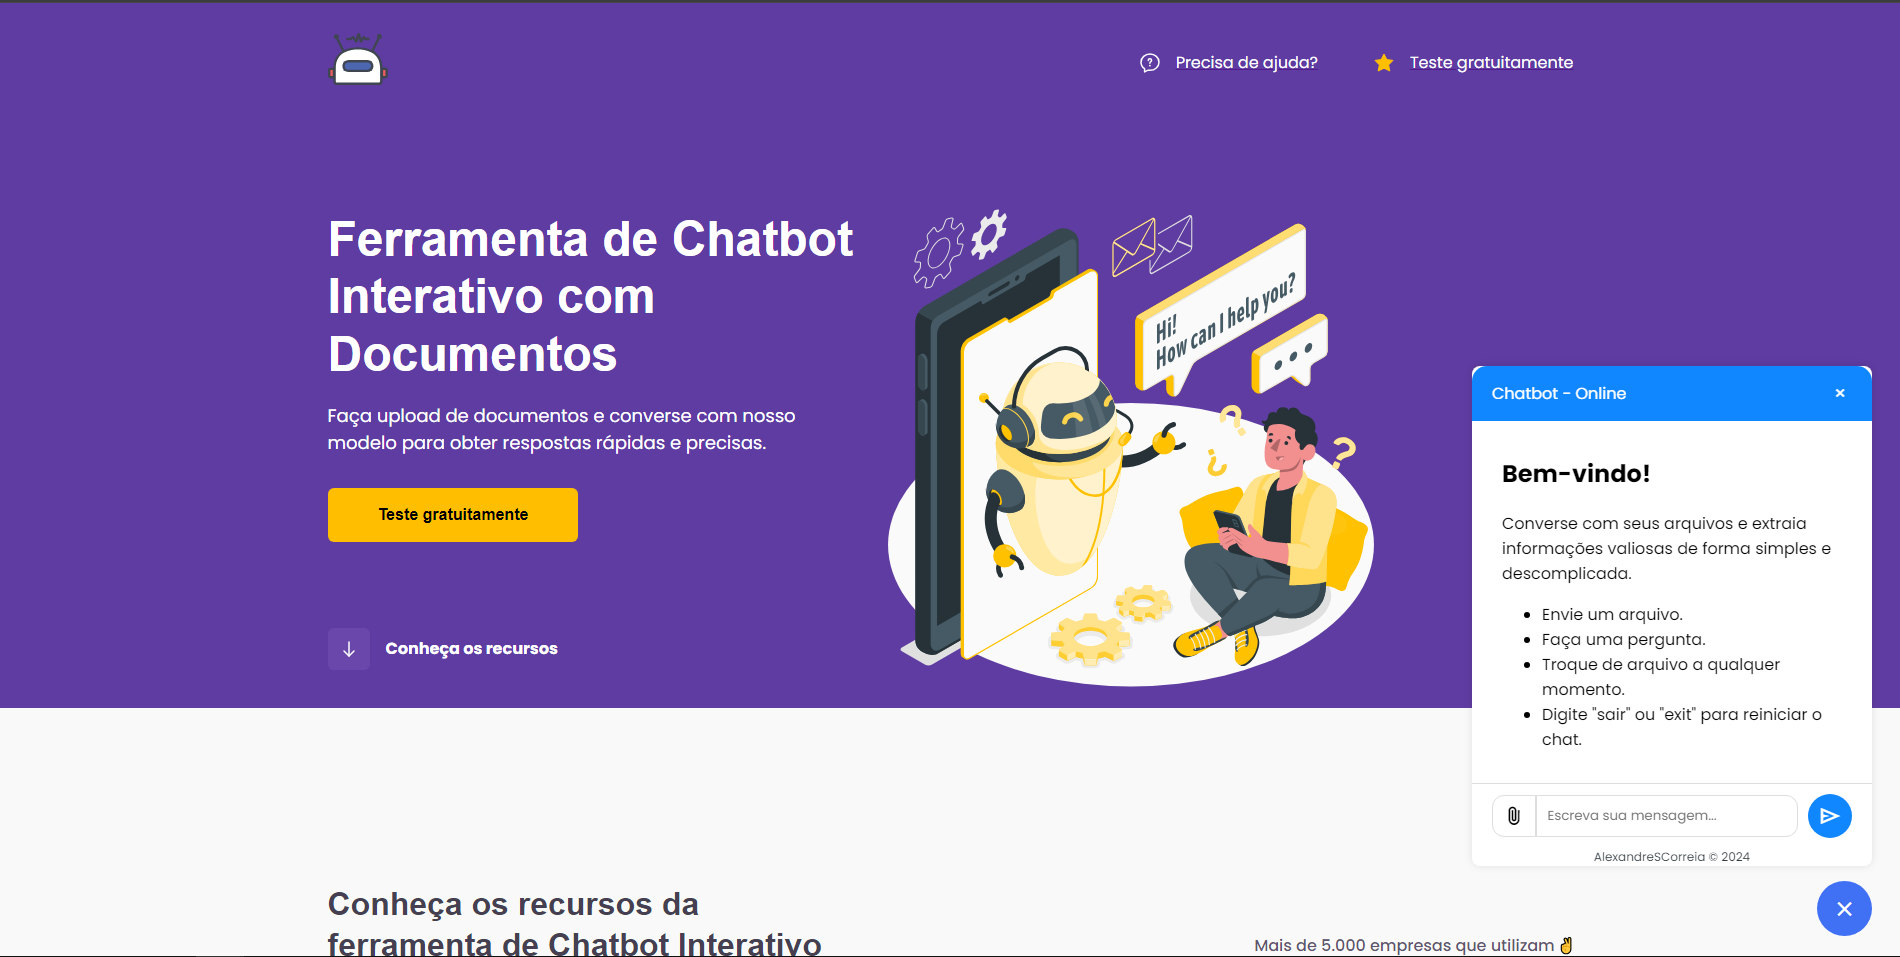
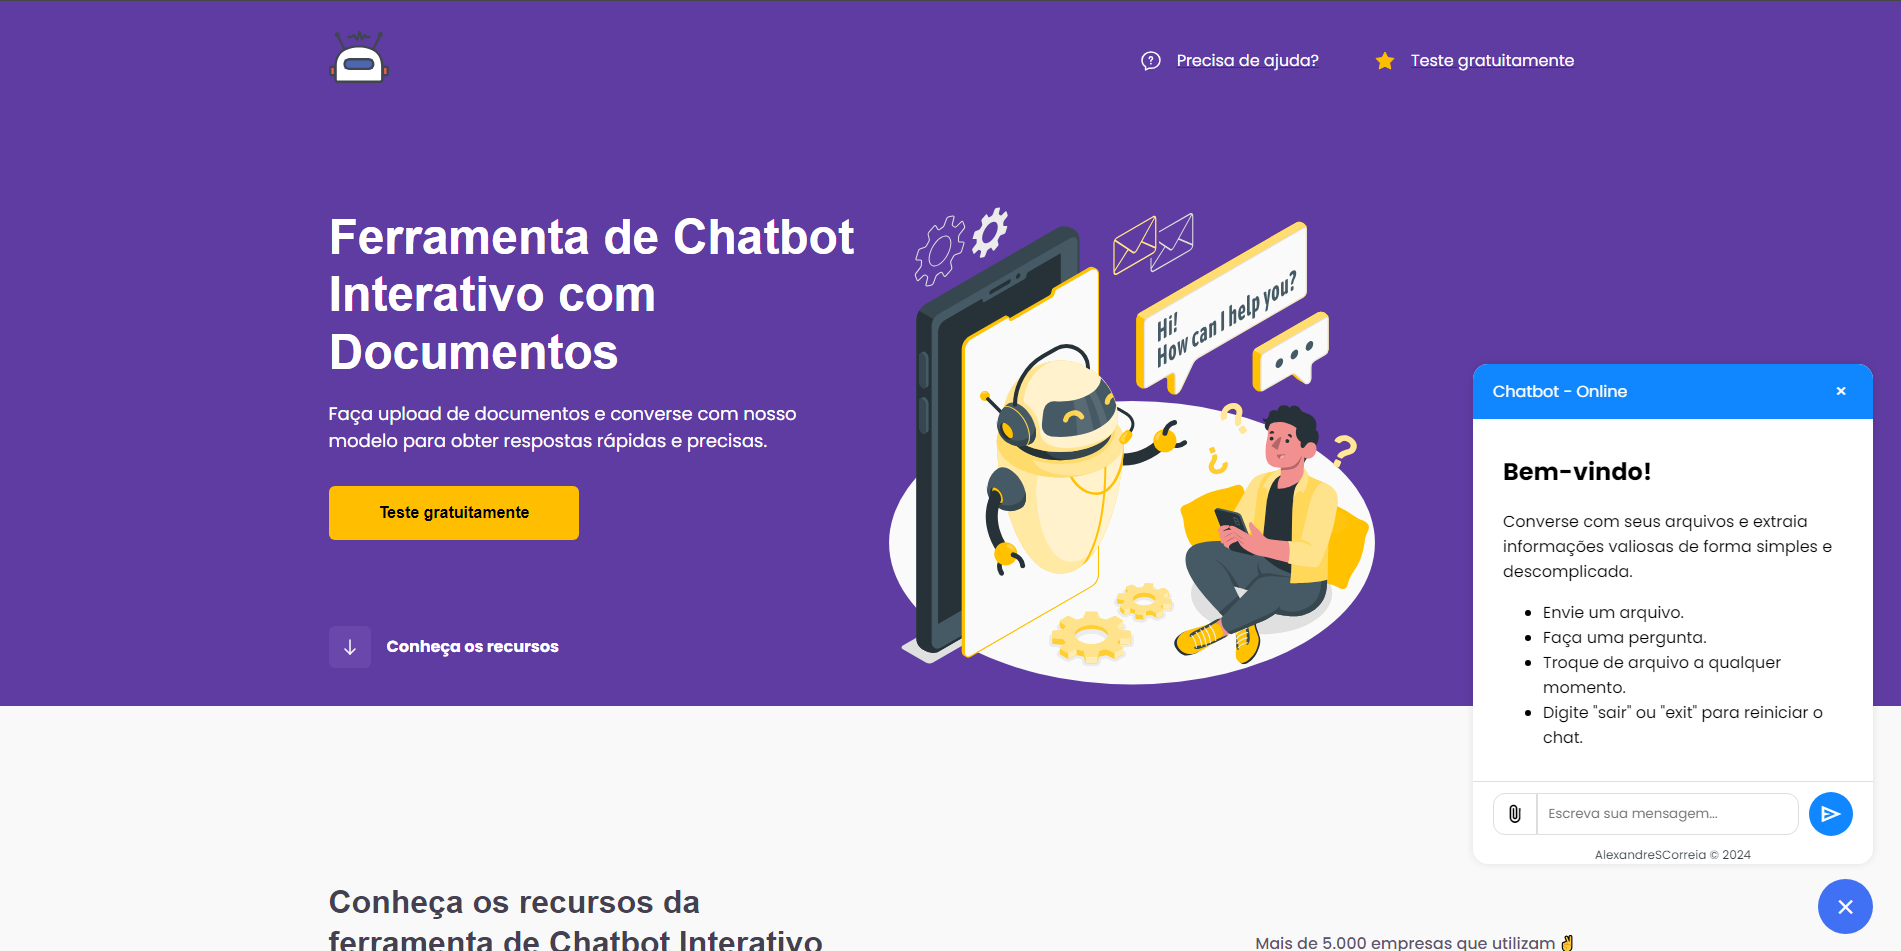
Ajustando borda do chat e imagem app

diff --git a/src/app/components/chatbot-popup/chatbot-popup.component.scss b/src/app/components/chatbot-popup/chatbot-popup.component.scss
@@ -5,7 +5,7 @@
   bottom: 90px;
   max-width: 400px;
   background: var(--chatbot-popup-bg);
-  border-radius: 8px;
+  border-radius: 15px;
   box-shadow: 0 0 8px var(--chatbot-popup-shadow);
   opacity: 0;
   pointer-events: none;
